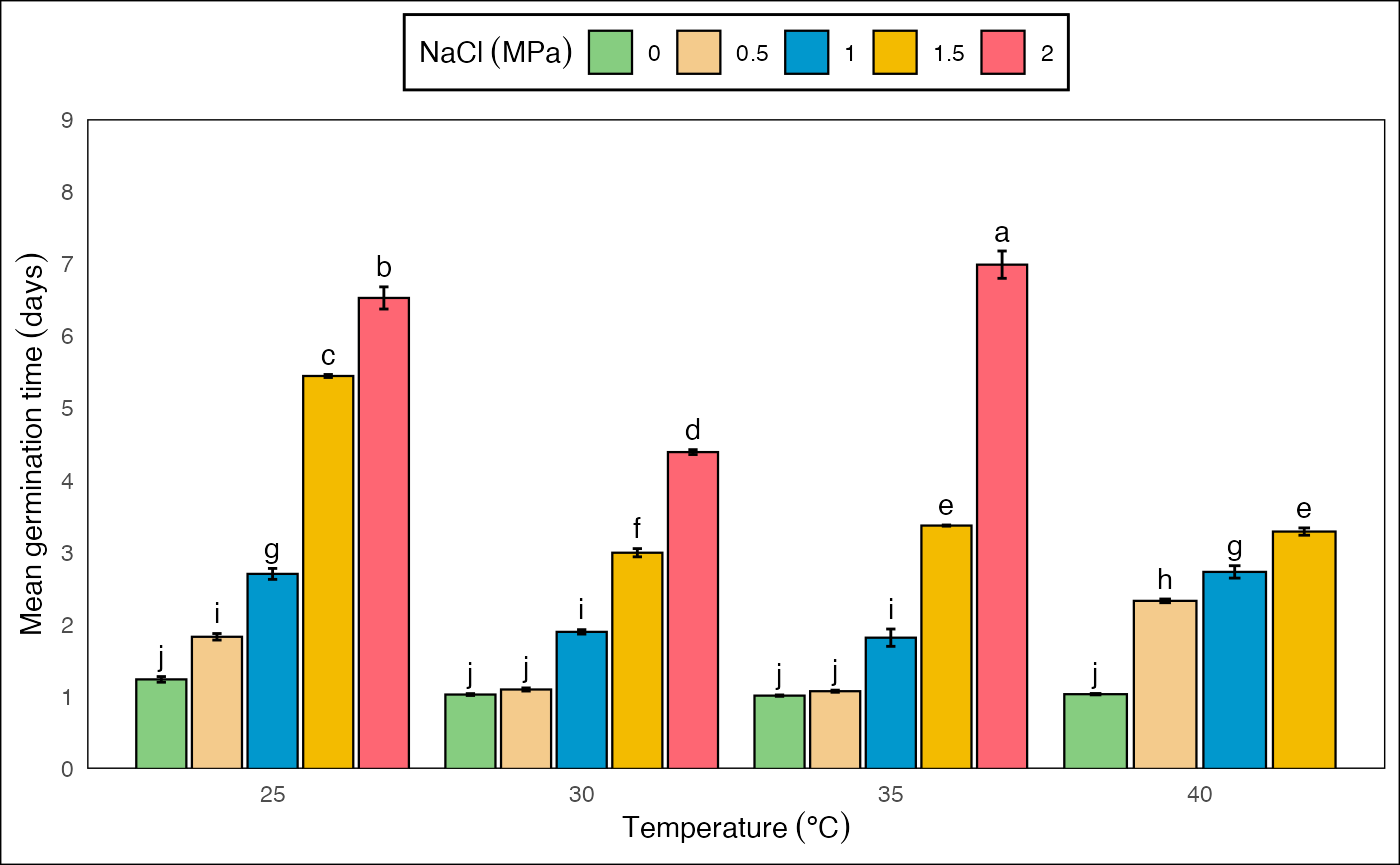
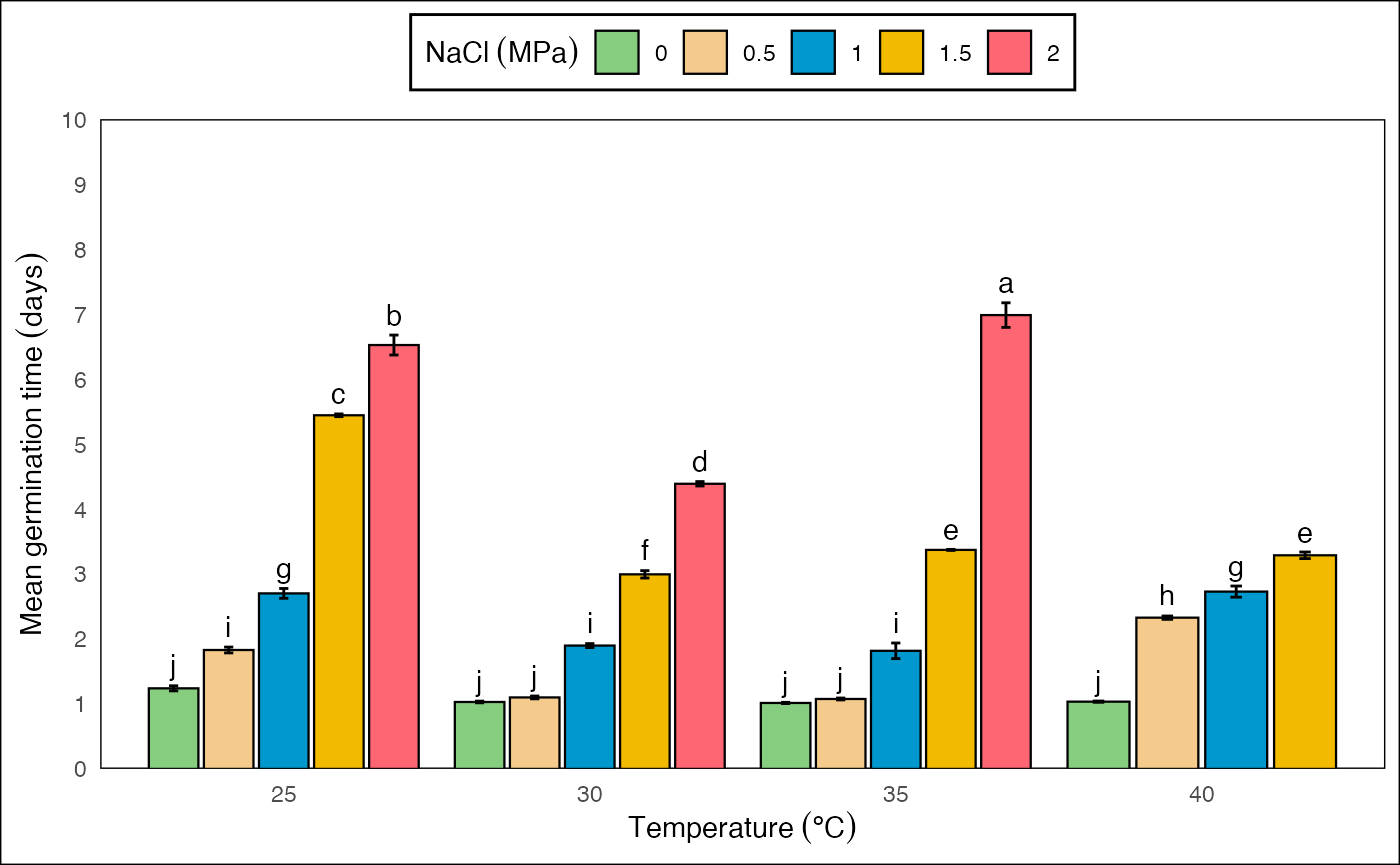
Built site for GerminaR: 2.1.1@69f08e8

diff --git a/articles/GerminaR.html b/articles/GerminaR.html
@@ -137,6 +137,24 @@
 
     
     
+<p>GerminaR is a platform base in open source package to calculate and graphic the germination indices in R. GerminaR include a web application called “GerminQuant for R” for non programming user.</p>
+<div id="footer" style="width:100%; margin:auto;">
+
+<div style="display:inline-block; width:49%">
+<p style="text-align:center">
+<a target="_blank" href="https://CRAN.R-project.org/package=GerminaR"><img src="https://flavjack.github.io/GerminaR/reference/figures/logo.png" style="height:70px" title="R cran" alt="GerminaR"></a> 
+<span style="display:block;"><small>GerminaR</small></span>
+</p>
+</div>
+
+<div style="display:inline-block; width:49%">
+<p style="text-align:center">
+<a target="_blank" href="https://flavjack.github.io/GerminaR/"><img src="https://pkgdown.r-lib.org/reference/figures/logo.png" style="height:70px" title="GerminaR" alt="GerminaR"></a> 
+<span style="display:block;"><small>Project</small></span>
+</p>
+</div>
+
+</div>
 <p>Analysis for the germination experiment can follow a routine. The functions will de explain according to the data set included in the GerminaR package: “<em>prosopis</em>”.</p>
 <ol style="list-style-type: decimal">
 <li>Install and load the GerminaR package. Load the “<em>prosopis</em>” dataset on your session. In case of using another dataset, you can load your own data and proceed according to the following script:</li>
@@ -1090,7 +1108,7 @@ Germination experiment with <em>Prosopis juliflor</em> under different osmotic p
        , x <span class="op">=</span> <span class="st">"temp"</span>
        , y <span class="op">=</span> <span class="st">"mgt"</span>
        , group <span class="op">=</span> <span class="st">"nacl"</span>
-       , ylimits <span class="op">=</span> <span class="fu"><a href="https://rdrr.io/r/base/c.html">c</a></span><span class="op">(</span><span class="fl">0</span>,<span class="fl">9</span>, <span class="fl">1</span><span class="op">)</span>
+       , ylimits <span class="op">=</span> <span class="fu"><a href="https://rdrr.io/r/base/c.html">c</a></span><span class="op">(</span><span class="fl">0</span>,<span class="fl">10</span>, <span class="fl">1</span><span class="op">)</span>
        , ylab <span class="op">=</span> <span class="st">"Mean germination time (days)"</span>
        , xlab <span class="op">=</span> <span class="st">"Temperature (ºC)"</span>
        , glab <span class="op">=</span> <span class="st">"NaCl (MPa)"</span>

diff --git a/articles/GerminaQuant.html b/articles/GerminaQuant.html
@@ -138,25 +138,16 @@
     
     
 <p><strong>GerminaQuant for R</strong> allows make the calculations for germination indices incredibly easy in an interactive web applications build in R <span class="citation">(R Core Team, <a href="#ref-R-base" role="doc-biblioref">2020</a>)</span>, based in <code>GerminaR</code> <span class="citation">(Lozano Isla et al., <a href="#ref-R-GerminaR" role="doc-biblioref">2020</a>)</span> and <code>Shiny</code> R package <span class="citation">(Chang et al., <a href="#ref-R-shiny" role="doc-biblioref">2020</a>)</span>. GerminaQuant app is reactive!. Outputs change instantly as users modify inputs. The principal features of the application allows to calculate the principal germination indices, statistical analysis and easy way to plot the results.</p>
-
-
 <div id="footer" style="width:100%; margin:auto;">
 
-<div style="display:inline-block; width:32%">
+<div style="display:inline-block; width:48%">
 <p style="text-align:center">
-<a target="_blank" href="https://CRAN.R-project.org/package=GerminaR"><img src="https://flavjack.github.io/GerminaR/reference/figures/logo.png" style="height:70px" title="R cran" alt="GerminaR"></a> 
-<span style="display:block;"><small>GerminaR</small></span>
+<a target="_blank" href="https://youtube.com/playlist?list=PLSQMdOu57lj9QUoA6JLuv0nBTYacuyrbg"><img src="https://lozanoisla.com/img/youtube.png" style="height:70px" title="Demo" alt="Demo"></a> 
+<span style="display:block;"><small>Demo</small></span>
 </p>
 </div>
 
-<div style="display:inline-block; width:32%">
-<p style="text-align:center">
-<a target="_blank" href="https://flavjack.github.io/GerminaR/"><img src="https://pkgdown.r-lib.org/reference/figures/logo.png" style="height:70px" title="GerminaR" alt="GerminaR"></a> 
-<span style="display:block;"><small>Project</small></span>
-</p>
-</div>
-
-<div style="display:inline-block; width:32%">
+<div style="display:inline-block; width:48%">
 <p style="text-align:center">
 <a target="_blank" href="https://flavjack.shinyapps.io/germinaquant/"><img src="https://flavjack.github.io/GerminaR/reference/figures/germinaquant.png" style="height:70px" title="GerminaQuant" alt="GerminaQuant for R"></a>
 <span style="display:block;"><small>GerminaQuant</small></span>
@@ -164,7 +155,6 @@
 </div>
 
 </div>
-
 <div id="app-modules" class="section level1">
 <h1 class="hasAnchor">
 <a href="#app-modules" class="anchor"></a>App modules</h1>

diff --git a/news/index.html b/news/index.html
@@ -208,6 +208,7 @@
 <li>
 <em>GerminaQuant</em>
 <ul>
+<li>Include demo videos for the app</li>
 <li>Suppress error messages in console when run the app</li>
 <li>Change dependency: <code>ggpubr</code> –&gt; <code>cowplot</code>
 </li>
